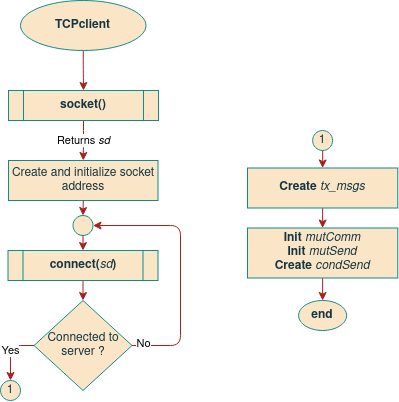
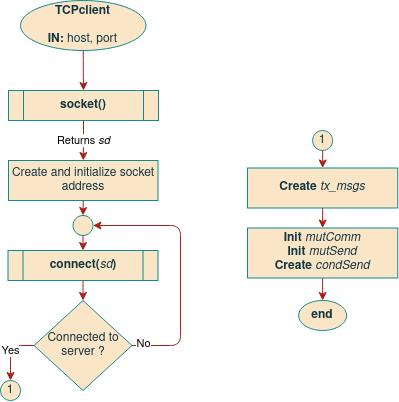
Gateway start-up

Changed region(s): [[0.1203, 0.0, 0.3008, 0.1194]]

diff --git a/project/report/texts/sw_gateway.tex b/project/report/texts/sw_gateway.tex
@@ -57,7 +57,7 @@ The mutexes used in this system are listed bellow, which are all private members
 
 %**********************************************************
 \subsection{Class Diagrams}
-In figure \ref{fig:GwclassDiag} is represented the class diagram of gateway. The class \textit{CGat} is the main class of the system that initializes the objects of each class listed below.
+In figure \ref{fig:GwclassDiag} is represented the class diagram of gateway. The class \textit{CGateway} is the main class of the system that initializes the objects of each class listed below.
 
 \begin{itemize}
 	\item \textbf{CLoraComm:} manages the LoRa communications, interfacing with the LoRa module;
@@ -73,6 +73,7 @@ In figure \ref{fig:GwclassDiag} is represented the class diagram of gateway. The
 \end{figure}
 
 \myparagraph{Class CTCPclient}
+
 In figure \ref{fig:TCPclient} is shown the TCPclient class. This class defines a TCPclient capable of establishing a connection to a given remote server and to exchange messages to it, via TCP-IP. Like in the LoraComm class, which is very similar to this, its used a vector of strings, \textit{tx\_msgs} to store messages, providing a waiting list of messages to be sent.
 
 \begin{figure}[H]
@@ -82,7 +83,7 @@ In figure \ref{fig:TCPclient} is shown the TCPclient class. This class defines a
 	\label{fig:TCPclientClass}
 \end{figure}
 
-A TCPclient can be created through the use of the constructor, shown in figure \ref{fig:TCPclient}. This connects to a given server, via TCP-IP and initializes all the private members.
+A TCPclient can be created through the use of the constructor, shown in figure \ref{fig:TCPclient}. This connects to a given server, defined by the string \textit{host}, and to the port \textit{port}, via TCP-IP and initializes all the private members.
 
 \begin{figure}[H]
 	\centering
@@ -133,9 +134,9 @@ Each local system has a predefined ID, which may be presented in a physical labe
 
 \myparagraph{tLoraRecv}
 
-This task, presented in figure \ref{fig:gwtLoraRecv}, is responsible for receiving all the packets sent by the local systems, through LoRa communication. This task makes use of a mutex \textit{mutLoraComm}, to protect LoRa send and receive functions, which must not occur at the same time. Besides that, it uses a mutex \textit{mutTCPSend} to protect the vector of messages \textit{msgs\_to\_rs} which can be changed in \textit{tTCPRecv}.
+This task, presented in figure \ref{fig:gwtLoraRecv}, is responsible for receiving all the packets sent by the local systems, through LoRa communication, using \textit{LoraComm.recv()} function, that was already detailed.
 
-When a message is received it is pushed into the vector of messages \textit{msgs\_to\_rs}, to be sent to the remote system. This way, we can receive continually messages from local systems, while there is another task sending this messages. This operation is protected by \textit{mutTCPSend}. After the message is added to the vector of messages, this task signals the task \textit{tTPCSend} through the condition variable \textit{condTCPSend}, in order for this to send the newly added message to the remote system.
+When a message is received it is pushed into the TCP client list of queue messages, waiting to be sent to the remote server.
 
 \begin{figure}[H]
 	\centering
@@ -157,7 +158,7 @@ When a message is received it is pushed into the vector of messages \textit{msgs
 %	\label{fig:gwtLoraSend}
 %\end{figure}
 
-\clearpage
+%\clearpage
 %\myparagraph{tTCPSend}
 %
 %This task, presented in figure \ref{fig:gwtTCPSend}, is responsible for sending all the messages sent by the local systems to the remote system, being received by in the task \textit{tLoraRecv}. It uses two mutexes: \textit{mutTCPSend} associated with the condition variable \textit{condTCPSend}, that synchronizes the insertion and removal of the messages from the vector \textit{msgs\_to\_rs}; and \textit{mutTCPComm}, to protect the communications send and receive.
@@ -172,18 +173,19 @@ When a message is received it is pushed into the vector of messages \textit{msgs
 %\end{figure}
 
 \myparagraph{tTCPRecv}
-This task, presented in figure \ref{fig:gwtTCPRecv}, is responsible for receiving the messages sent by the remote system to the local systems. Unlike the send tasks, this thread never enters the sleep state because we can receive a message at any moment, so first, one have to lock the mutex \textit{mutTCPComm} and try to receive a message. If it was received a message, i.e, the \textit{msg} variable is not empty, then one can push the message to the messages vector \textit{msgs\_to\_ls} and notify the condition variable \textit{condLoraSend}, after locking its mutex \textit{mutLoraSend}, to inform that a new message has been received.
+This task, presented in figure \ref{fig:gwtTCPRecv}, is responsible for receiving the messages sent by the remote system to the local systems. Unlike the \textit{tsend} tasks, this thread never enters the sleep state because we can receive a message at any moment. If it is received a message, then one can push the message to the messages vector in LoraComm, signaling its thread to send the message, via LoRa communication
 
 \begin{figure}[H]
 	\centering
-	\includegraphics[width=.42\textwidth]{09sw_specification/GwtTCPRecv}
+	\includegraphics[width=.5\textwidth]{09sw_specification/GwtTCPRecv}
 	\caption{Flowchart: Gateway tTCPRecv.}
 	\label{fig:gwtTCPRecv}
 \end{figure}
 
 %%**********************************************************
+\clearpage
 \subsection{Start-up Process}
-In figure \ref{fig:bootGateway} is shown the start-up process for the gateway. When booting up, the gateway initializes TCP-IP communication with the remote server, and initializes the LoRa communication module, that allows communicating with the local systems. After this modules are initialize, then one can create all the necessary tasks and initialize them. (Remember figure \ref{fig:bootLS}, where \textit{InitLora} is shown)
+In figure \ref{fig:bootGateway} is shown the start-up process for the gateway. When booting up, the gateway creates the TCPclient and the LoraComm objects, initializing the peripherals needed for the gateway to communicate with the local systems and the remote server. After this the threads are created and both objects begin running their threads for receiving messages.
 
 \begin{figure}[H]
 	\centering

diff --git a/project/report/texts/sw_local_system.tex b/project/report/texts/sw_local_system.tex
@@ -344,7 +344,7 @@ In figure \ref{fig:fail_isr} is represented the FailureDetectIsr flowchart. Simi
 
 %**********************************************************
 \subsection{Start-up Process}
-In figure \ref{fig:bootLS} is shown the start-up process for the local system. When booting up, the local system creates all necessary objects, as presented previously, and initializes them.
+In figure \ref{fig:bootLS} is shown the start-up process for the local system. When booting up, the local system creates all necessary objects, as presented previously, and initializes them, as well as threads \textit{tLoraRecv} and \textit{tRecvSensors}.
 
 \begin{figure}[H]
 	\centering
